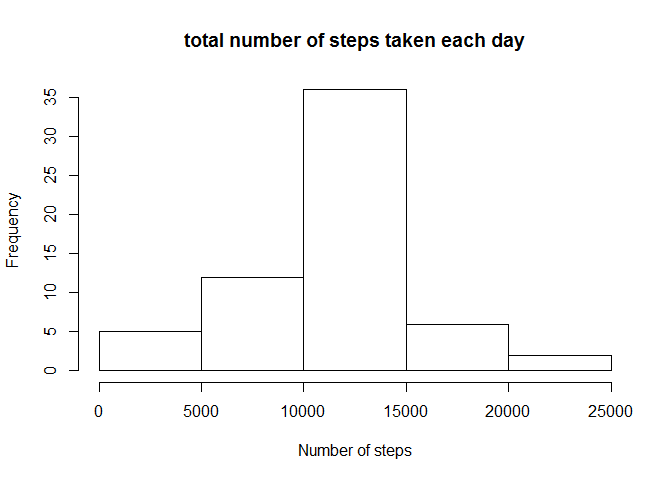
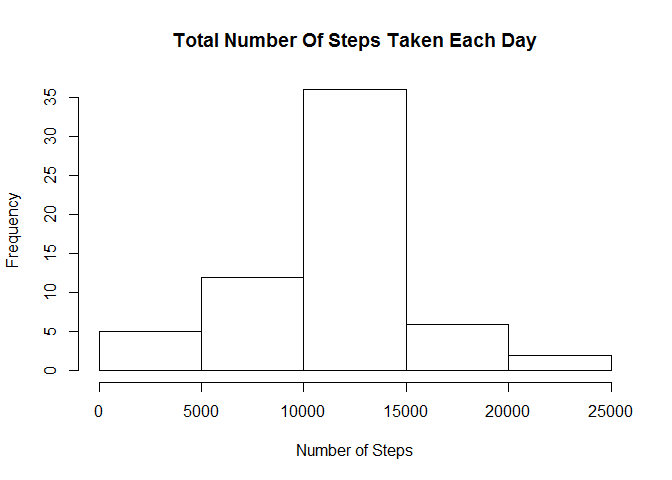
Added comments and made minor changes

Changed region(s): [[0.25, 0.0625, 0.8125, 0.125], [0.4375, 0.9062, 0.625, 0.9688]]

diff --git a/PA1_template.html b/PA1_template.html
@@ -70,7 +70,7 @@ data$date &lt;- as.Date(data$date)</code></pre>
 </div>
 <div id="what-is-mean-total-number-of-steps-taken-per-day" class="section level3">
 <h3>What is mean total number of steps taken per day?</h3>
-<p>For this part of the assignment, you can ignore the missing values in the dataset.</p>
+<p>For this part of the assignment, you can ignore the missing values in the dataset. We interpret that as leaving the missing values untouched instead of removing them. It could mean the opposite, but in our case it makes little difference and can be done by switching the na.rm parameter of the “aggregate” function.</p>
 <pre class="r"><code>## Calculate total steps per day
 totalst_per_day &lt;- aggregate(cbind(steps) ~ date, data = data, FUN = sum, na.rm = FALSE)</code></pre>
 <ol style="list-style-type: decimal">
@@ -129,8 +129,8 @@ data1[nalist, 'steps.x'] &lt;- data1$steps.y[nalist]</code></pre>
 <pre class="r"><code># numbers based on the revised data set
 totalst_per_day1 &lt;- aggregate(cbind(steps.x) ~ date, data = data1, FUN = sum, na.rm = TRUE)
 
-hist(totalst_per_day1$steps.x, breaks = 7, main = &quot;total number of steps taken each day&quot;, xlab='Number of steps')</code></pre>
[1 lines of base64/hex data omitted]
+hist(totalst_per_day1$steps.x, breaks = 7, main = &quot;Total Number Of Steps Taken Each Day&quot;, xlab='Number of Steps')</code></pre>
[1 lines of base64/hex data omitted]
 <pre class="r"><code>## Mean
 mean(totalst_per_day1$steps.x)</code></pre>
 <pre><code>## [1] 10766</code></pre>

diff --git a/PA1_template.md b/PA1_template.md
@@ -21,6 +21,8 @@ data$date <- as.Date(data$date)
 
 ### What is mean total number of steps taken per day?
 For this part of the assignment, you can ignore the missing values in the dataset.
+We interpret that as leaving the missing values untouched instead of removing them.
+It could mean the opposite, but in our case it makes little difference and can be done by switching the na.rm parameter of the "aggregate" function.
 
 
 ```r
@@ -112,7 +114,7 @@ data1[nalist, 'steps.x'] <- data1$steps.y[nalist]
 # numbers based on the revised data set
 totalst_per_day1 <- aggregate(cbind(steps.x) ~ date, data = data1, FUN = sum, na.rm = TRUE)
 
-hist(totalst_per_day1$steps.x, breaks = 7, main = "total number of steps taken each day", xlab='Number of steps')
+hist(totalst_per_day1$steps.x, breaks = 7, main = "Total Number Of Steps Taken Each Day", xlab='Number of Steps')
 ```
 
 ![plot of chunk unnamed-chunk-10](./PA1_template_files/figure-html/unnamed-chunk-10.png) 
